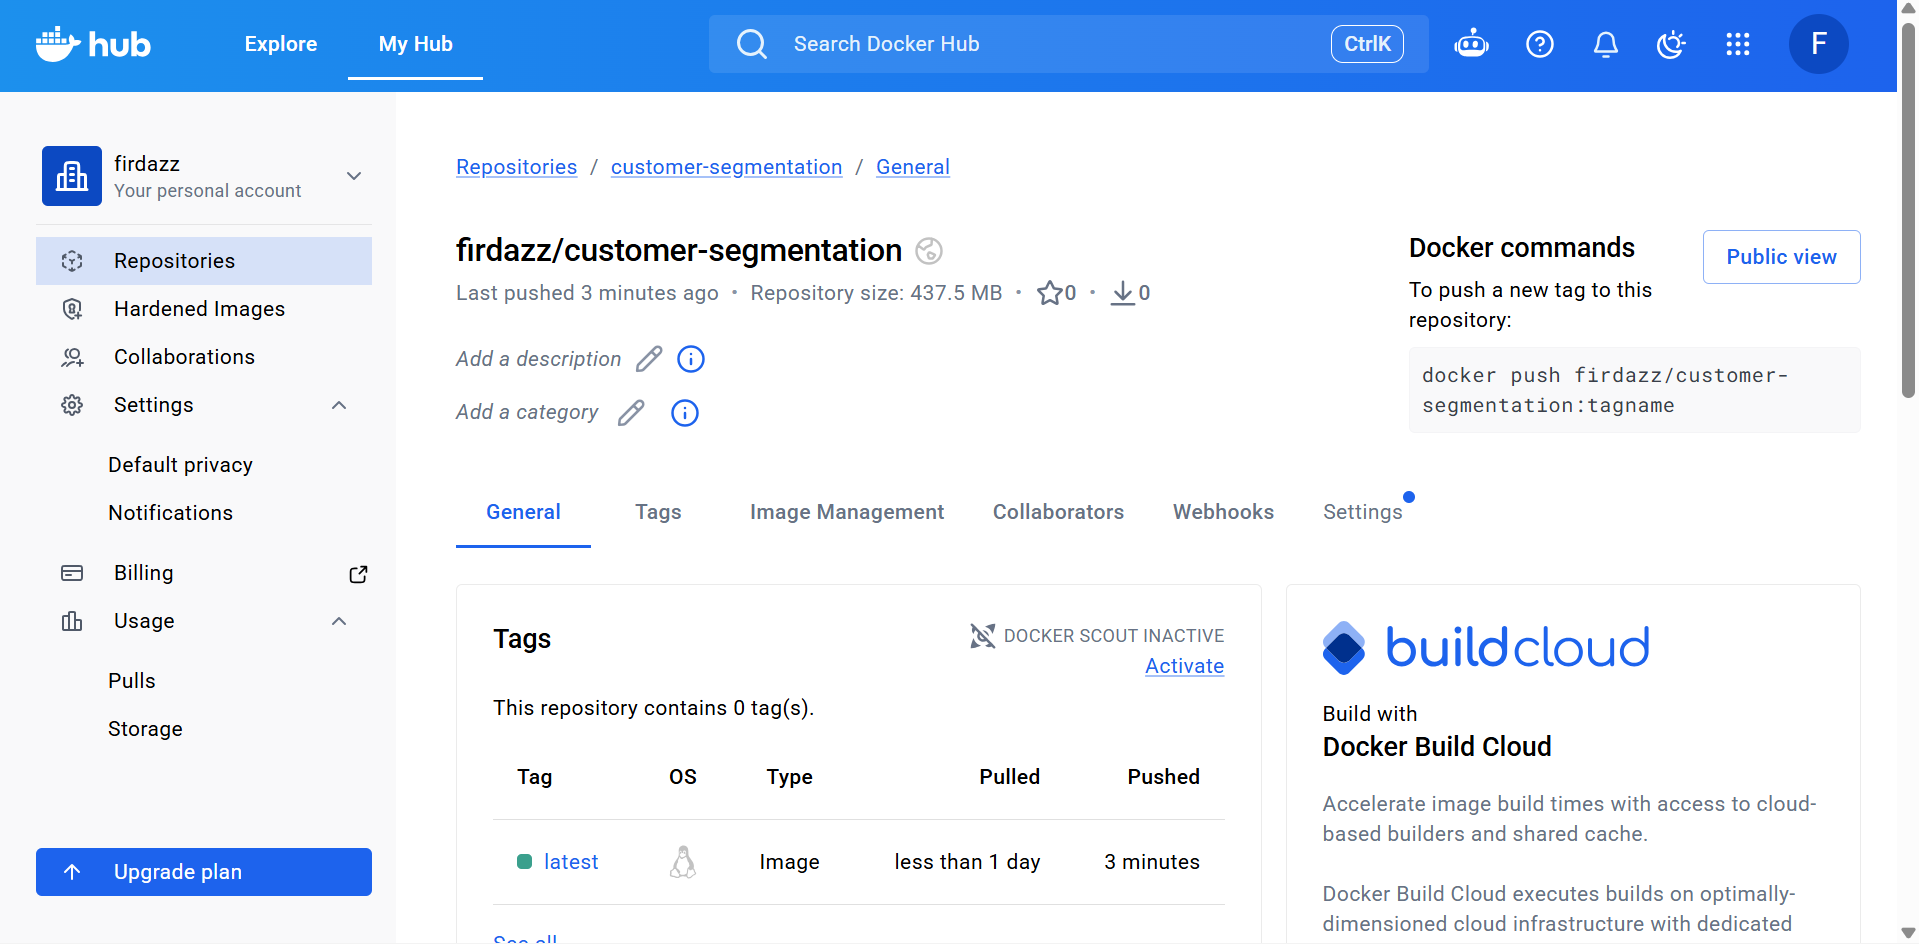
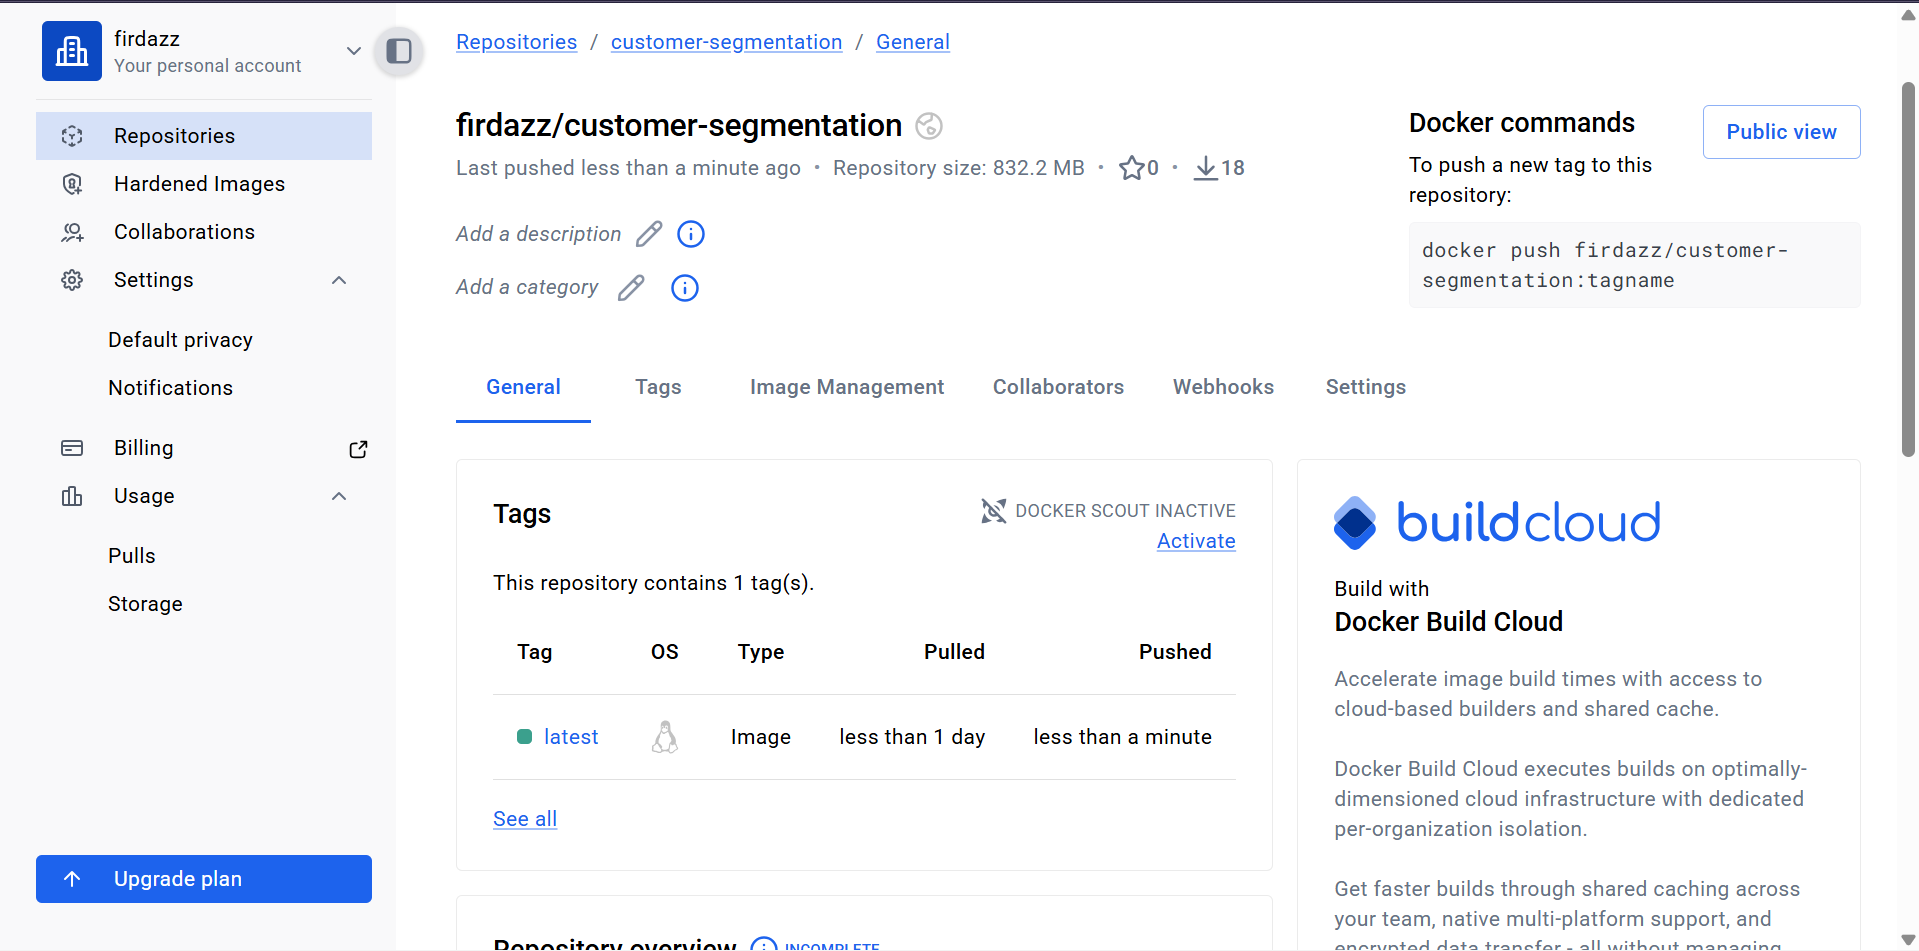
Upload proyek segmentasi pelanggan dan konfigurasi Docker terbaru

diff --git a/MLProject/modelling.py b/MLProject/modelling.py
@@ -3,6 +3,7 @@ import pandas as pd
 import mlflow
 import mlflow.sklearn
 from sklearn.cluster import KMeans
+import joblib
 
 def train_model():
     # 1. Mengatur rute dinamis (Dynamic Path)
@@ -42,6 +43,19 @@ def train_model():
         
         model = KMeans(n_clusters=n_clusters, init='k-means++', random_state=42, n_init=10)
         model.fit(df_clean)
+
+        # Save model
+        # Membuat path ke folder 'model' yang sejajar dengan modelling.py
+        model_dir = os.path.abspath(os.path.join(BASE_DIR, "model"))
+        
+        # Pastikan folder 'model' ada (jika belum, buat otomatis)
+        if not os.path.exists(model_dir):
+            os.makedirs(model_dir)
+            
+        # Simpan model
+        joblib.dump(model, os.path.join(model_dir, "kmeans_model.joblib"))
+        print(f"\n[SUKSES] Model berhasil disimpan di: {os.path.join(model_dir, 'kmeans_model.joblib')}")
+        # ----------------------------------------------
         
         run_id = run.info.run_id
         print(f"\n[SUKSES] Model berhasil dilatih! Run ID: {run_id}")